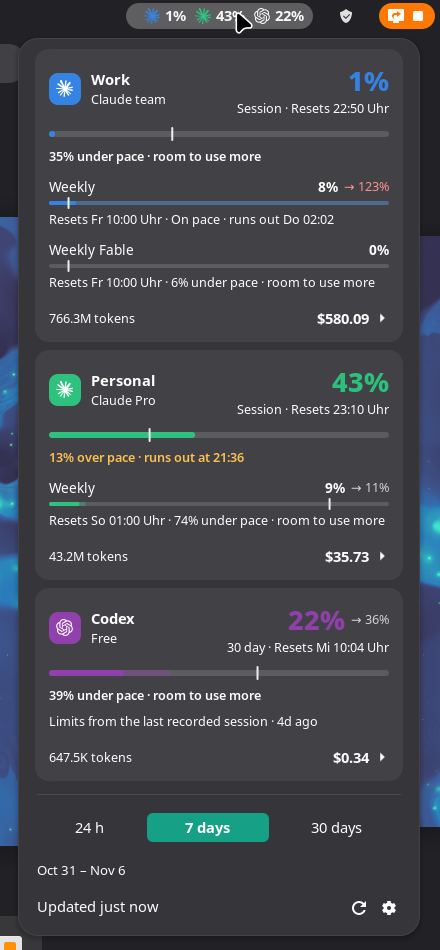
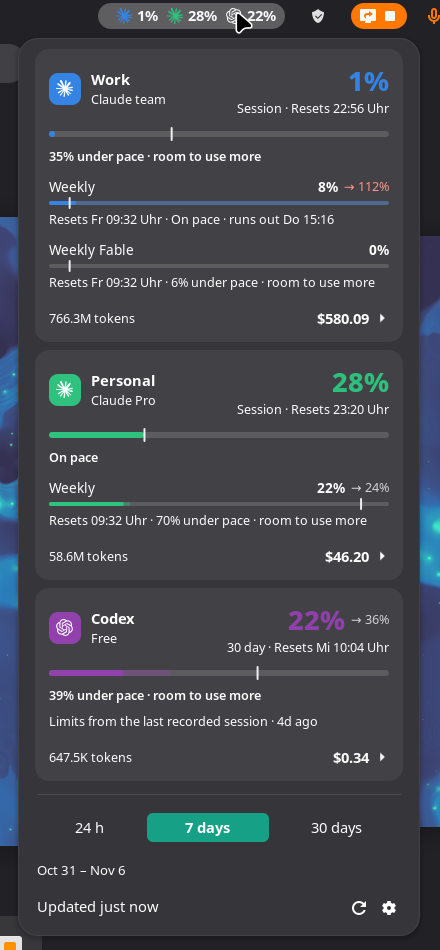
docs(readme): rewrite around pace and accounts, add screenshots
Add top-bar, cost-details and Providers-tab screenshots. Lead with what the
pace marker and the weekly forecast tell you, and fold the notes into a
short fine-print list.

diff --git a/README.md b/README.md
@@ -1,43 +1,58 @@
-# Tripmeter Usage
+# Tripmeter
 
-A GNOME Shell extension for checking Claude Code and Codex usage from the top panel.
-
-It shows your current limits and resets, plus an estimate of what your token usage would cost at
-API list prices. Data comes from local session files and stays on your machine.
+Claude Code and Codex limits in the GNOME top bar, with a marker that tells you whether you are
+burning through the week or leaving quota on the table.
 
 <p align="center">
-  <img src="docs/menu.png" alt="Tripmeter menu" width="420">
+  <img src="docs/panel.png" alt="Tripmeter in the top bar: one icon and percentage per account" width="300">
 </p>
 
-## Features
+<p align="center">
+  <img src="docs/menu.png" alt="Tripmeter menu with one card per account" width="420">
+</p>
 
-- Claude Code and Codex limits and reset times
-- Weekly forecast: where the limit lands at reset, weighted by which weekdays you actually work
-- Pace marker on every limit: how much an even spread would have used by now
-- Several Claude Code accounts side by side, each with its own name and colour
-- API-equivalent cost for the past 24 hours, 7 days or 30 days
-- Cost by model, skill, subagent and MCP tool
-- Prompt-cache savings
-- Panel display with limit, cost or icon only
+## What it shows
 
-Tripmeter works with either CLI on its own or with both. It supports GNOME Shell 49 and 50.
+**Every limit, per account.** Claude's 5-hour session, the weekly limit and the per-model weekly
+limits; whatever windows Codex's plan has. One card per account, in the colour you gave it, and
+one icon and percentage per account in the top bar.
+
+**Pace.** The white tick on each bar is where an even spread would be right now. Left of it, you
+have room to use more. Right of it, the line under the bar turns amber and tells you when the limit
+runs out at the current rate, e.g. `13% over pace · runs out at 21:18`.
+
+**Where the week lands.** Weekly bars carry a paler segment and a `→ 112%`: the figure at reset if
+your pace holds. It is weighted by your own weekday rhythm, so a quiet weekend ahead counts for
+less than a Tuesday. 85–95% at reset is the sweet spot.
+
+**What it would have cost.** Click the cost line on a card to see your tokens priced at API list
+rates for the last 24 hours, 7 days or 30 days: by model, skill, subagent and MCP tool, plus what
+prompt caching saved.
+
+<p align="center">
+  <img src="docs/details.png" alt="A card with its cost details folded out" width="380">
+</p>
+
+**Several Claude accounts.** Work and personal logins live in separate config directories
+(`CLAUDE_CONFIG_DIR`). Tripmeter reads each one as its own account. You can switch Codex off without
+uninstalling it.
+
+Nothing leaves your machine. Tripmeter reads the session files the CLIs already write. Its only
+network request is the usage call Claude Code itself makes, sent with the token Claude Code already
+stored. You don't need an API key or a helper CLI, and there is no telemetry.
+
+GNOME Shell 49 and 50. Works with either CLI on its own or with both.
 
 ## Install
 
-Download the zip from the [latest release](https://github.com/TheSalaty/tripmeter/releases/latest),
-then run:
+Download the zip from the [latest release](https://github.com/TheSalaty/tripmeter/releases/latest)
+and install it:
 
 ```sh
-cd ~/Downloads
+gnome-extensions install --force ~/Downloads/tripmeter@thesalaty.github.io.shell-extension.zip
 ```
 
-Then run:
-
-```sh
-gnome-extensions install --force tripmeter@thesalaty.github.io.shell-extension.zip
-```
-
-Log out and back in, then enable the extension:
+Log out and back in (GNOME on Wayland only loads new extensions at login), then:
 
 ```sh
 gnome-extensions enable tripmeter@thesalaty.github.io
@@ -45,7 +60,7 @@ gnome-extensions enable tripmeter@thesalaty.github.io
 
 ### From source
 
-Requires Node.js 20 or newer.
+Needs Node.js 20 or newer.
 
 ```sh
 git clone https://github.com/TheSalaty/tripmeter.git
@@ -54,41 +69,41 @@ npm install
 make install
 ```
 
-Log out and back in before enabling the extension. Run `make pack` to build an installable zip.
+`make pack` builds the installable zip.
 
-## Settings
+## Accounts
 
-Open the settings from the gear in the menu or run:
+Open the settings from the gear in the menu, or with
+`gnome-extensions prefs tripmeter@thesalaty.github.io`.
 
-```sh
-gnome-extensions prefs tripmeter@thesalaty.github.io
-```
+<p align="center">
+  <img src="docs/settings.png" alt="The Providers tab: one row per account with a colour, a name and a switch" width="520">
+</p>
 
-You can change the panel display, cost window and refresh interval.
+The **Providers** tab has one row per Claude Code config directory or Codex home. Each row has a
+name, a colour and an on/off switch. If you use T3 Code, **Import from T3 Code**
+copies the names, accent colours and directories of the providers you set up there.
 
-### Providers
-
-The **Providers** tab lists every source Tripmeter reads: one entry per Claude Code account
-(one per config directory, as set with `CLAUDE_CONFIG_DIR`) and per Codex home (`CODEX_HOME`).
-Each entry has a name, a colour for its panel icon and menu section, and a switch, so you can hide
-Codex while it stays installed. **Import from T3 Code** copies the names, accent colours,
-directories and switches of the Claude and Codex providers configured in T3 Code.
-
-From the command line, the same list is a JSON setting:
+The same list is a JSON setting, so you can script it:
 
 ```sh
 dconf write /org/gnome/shell/extensions/tripmeter/providers "'[
   {\"kind\": \"claude\", \"name\": \"Work\", \"color\": \"#3584e4\"},
-  {\"kind\": \"claude\", \"name\": \"Private\", \"color\": \"#00ba0f\", \"home\": \"~/.claude-private\"},
+  {\"kind\": \"claude\", \"name\": \"Personal\", \"color\": \"#2ec27e\", \"home\": \"~/.claude-personal\"},
   {\"kind\": \"codex\", \"enabled\": false}
 ]'"
 ```
 
-An empty `home` means the CLI's default directory. `dconf reset` on the key goes back to showing
-every installed CLI.
+An empty `home` means the CLI's default directory. `dconf reset` on the key goes back to every
+installed CLI.
 
-Model prices are defined in [`src/lib/pricing.ts`](src/lib/pricing.ts). To override them, create
-`~/.config/tripmeter/pricing.json`:
+The **General** tab sets what the top bar shows (limits, cost or just the icon), the cost window
+and the refresh interval.
+
+## Prices
+
+The price list is in [`src/lib/pricing.ts`](src/lib/pricing.ts). To override it, create
+`~/.config/tripmeter/pricing.json` with prices in USD per million tokens:
 
 ```json
 {
@@ -97,22 +112,23 @@ Model prices are defined in [`src/lib/pricing.ts`](src/lib/pricing.ts). To overr
 }
 ```
 
-Prices are in USD per million tokens. The longest matching model prefix wins.
+The longest matching model prefix wins.
 
-## Notes
+## Fine print
 
-- API-equivalent cost is an estimate, not a subscription bill.
-- Claude's OAuth token is only read, never refreshed. Starting Claude Code refreshes an expired token.
-- Codex limits come from its latest local session snapshot and update when Codex runs.
-- The weekly forecast extrapolates the pace so far and weights the days left in the window by how
-  much each weekday usually takes — an idle weekend ahead counts for less than a Tuesday. Codex
-  reads that rhythm from the limit history in its own session files; for Claude, Tripmeter records
-  one figure per day as it runs, so the estimate keeps sharpening over the first couple of weeks of
-  use. Neither looks further back than 16 days, so a rhythm you have left behind stops counting.
-  It is a projection, not a promise — landing at 85–95% uses the week without overrunning it.
+- The cost is what the same tokens would cost on the API. A subscription is flat-rate, so it is not
+  a bill.
+- Claude's OAuth token is only read, never refreshed. Refreshing it here would log Claude Code out.
+  If it has expired, start Claude Code once.
+- api.anthropic.com rate-limits the usage endpoint hard. Tripmeter caches each account's limits for
+  a few minutes and keeps the last good reading if a request is refused.
+- Codex limits come from its most recent session file and only change when Codex runs.
+- The weekly forecast looks back at most 16 days. Codex's comes from the limit history in its
+  session files. Claude publishes no history, so Tripmeter records a daily figure as it runs, and
+  the forecast gets better over the first two weeks. It is a projection, not a promise.
 
-For development notes, see [docs/DEVELOPMENT.md](docs/DEVELOPMENT.md).
+Development notes are in [docs/DEVELOPMENT.md](docs/DEVELOPMENT.md).
 
 ## License
 
-[MIT](LICENSE). Tripmeter is not affiliated with Anthropic or OpenAI.
+[MIT](LICENSE). Not affiliated with Anthropic or OpenAI.
